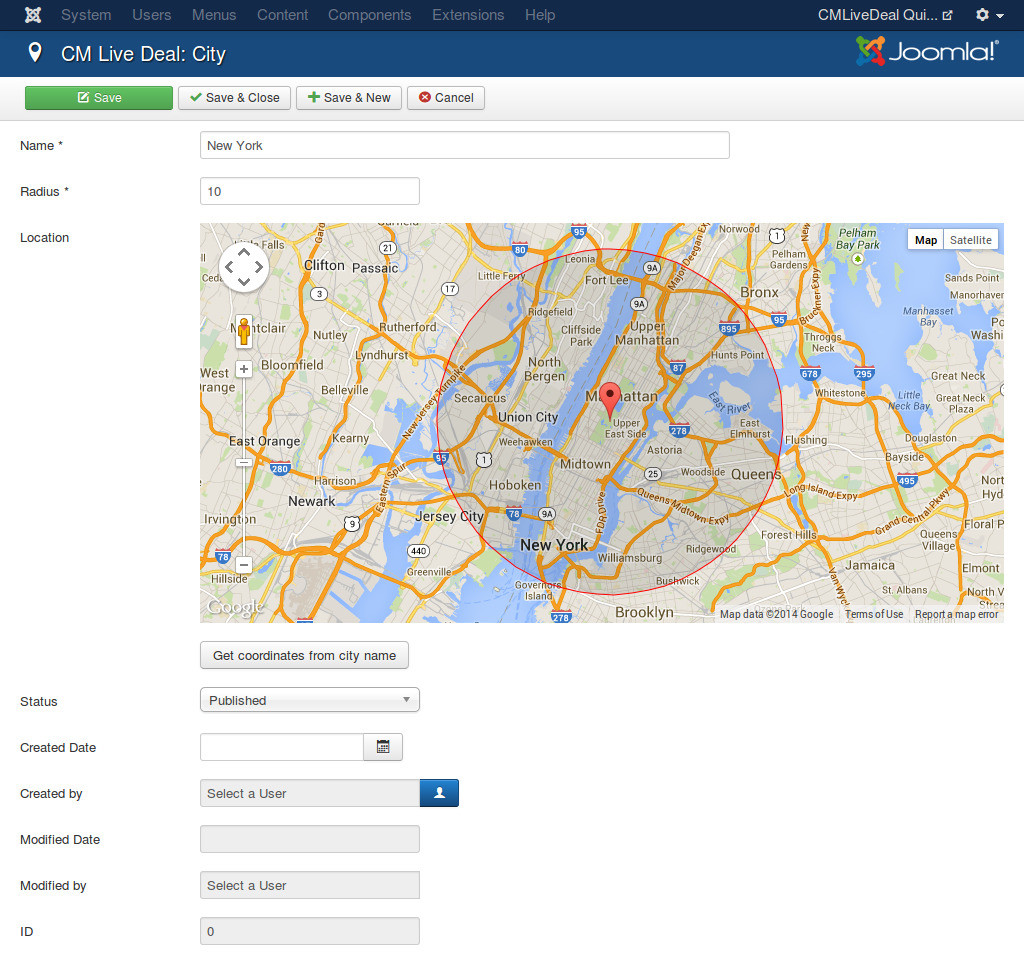
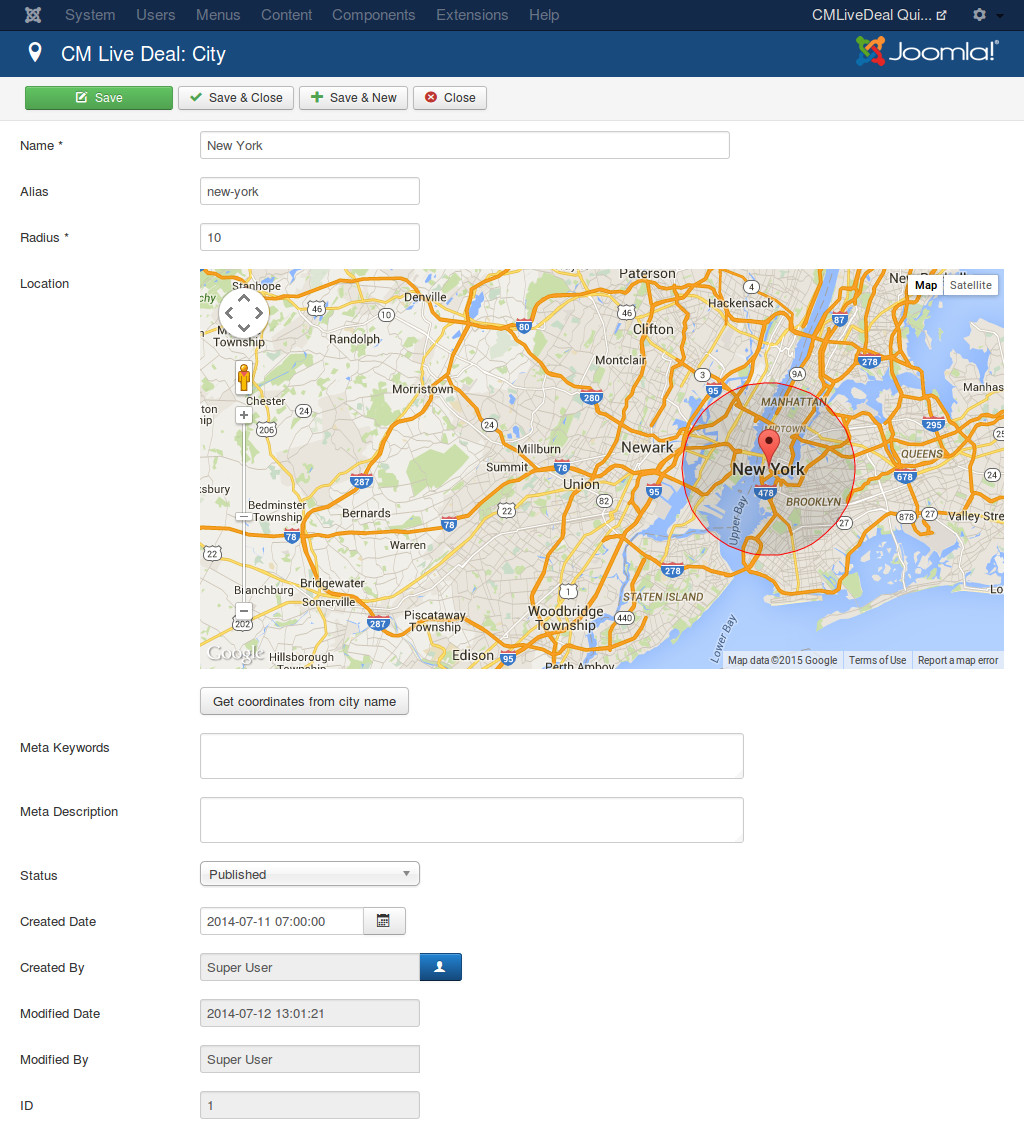
1.6.0-beta

diff --git a/conf.py b/conf.py
@@ -51,9 +51,9 @@ copyright = u'2014-2015, CMExtension'
 # built documents.
 #
 # The short X.Y version.
-version = '1.5.2'
+version = '1.6.0'
 # The full version, including alpha/beta/rc tags.
-release = '1.5.2-stable'
+release = '1.6.0-beta'
 
 # The language for content autogenerated by Sphinx. Refer to documentation
 # for a list of supported languages.

diff --git a/pages/deals.rst b/pages/deals.rst
@@ -41,6 +41,8 @@ If you enable "Limit coupon quantity" in the component's configuration, "Coupon 
 
 Other fields in the form:
 
+* **Meta description**: Meta description for SEO. Only administrator can see this field in back-end.
+* **Meta keywords**: Meta keywords for SEO. Only administrator can see this field in back-end.
 * **Impressions**: The number of times this deal is displayed in deal list.
 * **Clicks**: The number of times users click this deal to view its detail.
 * **Created Date**: The date the deal is created.
@@ -124,3 +126,28 @@ Deal list is where users browse and find the deals that they are interested in.
 In your back-end, you create a new menu item for "Deal List" page. You can check the menu item in front-end, the deal list is similar to the below screenshot.
 
 .. image:: ../images/deal_frontend_list.jpg
+
+Deal detail
+-----------
+
+There are 2 styles of deal detail which you can configure in :ref:`ref-configuration-deal` section in Configuration:
+
+* Popup:
+
+.. image:: ../images/deal_detail_popup.jpg
+
+* Separate detail page:
+
+.. image:: ../images/deal_detail_page.jpg
+
+There is a menu item for deal detail page but it is optional. If you create this menu item (as a hidden menu item), its alias will be used for deal detail page. But if this menu item doesn't exist, your deal list's alias will be used instead.
+
+For example, if your deal list's URL is www.yoursite.com/deal-list and you don't create menu item for deal detail page, your deal URL could look like:
+
+www.yoursite.com/deal-list/1-50-off-cocktails-and-2-tacos-at-rocks-lakeview-s-tuesday-specials
+
+But if you create menu item for deal detail page with alias "deal", your deal URL would be
+
+www.yoursite.com/deal/1-50-off-cocktails-and-2-tacos-at-rocks-lakeview-s-tuesday-specials
+
+The benefit of creating a separate menu item for deal detail page is you can assign different modules to detail page or not showing specific modules in deal detail page. By using deal list's menu item, all modules in deal list page will be displayed in deal detail page.

diff --git a/pages/merchants.rst b/pages/merchants.rst
@@ -61,6 +61,10 @@ Access the new menu item in front-end, login with a merchant account, you can se
 
 As an administrator, you can always edit any user's profile in User Manager.
 
+.. image:: ../images/merchant_backend_form.jpg
+
+Administrator can add and edit meta description and meta keywords for merchant, merchant can't do this by himself in front-end. Meta description and meta keywords are used in merchant's detail page for SEO purpose.
+
 Manage merchants
 ----------------
 
@@ -74,6 +78,6 @@ On the toolbar, you click "Merchants" item to access the merchant map.
 
 With this Google Maps, you can see the cities and the merchants in every city. Every city has a circle, if the merchant is in the circle of a city that means the merchant's deals can be listed in the deal list when users search for deals in that city.
 
-If there is any merchant that is not in the circle of any city, you should create a new city for that merchant, or extend the radius of the nearest city, unless the deals of these merchants are not searchable.
+If there is any merchant that is not in the circle of any city, you should create a new city for that merchant, or extend the radius of the nearest city, otherwise the deals of these merchants are not searchable.
 
 .. image:: ../images/merchant_map.jpg

diff --git a/pages/configuration.rst b/pages/configuration.rst
@@ -143,10 +143,17 @@ Merchant
 * **Merchant detail page**: Enable merchant detail page where merchant info and merchant's deal list are displayed.
 * **Use subscriber's profile as merchant's profile**: Enable copying subscriber's profile from the membership component to CM Live Deal's merchant profile after merchant subscribes his/her membership, so merchant only enter his/her info once. Please see :ref:`ref-membership` section for more information.
 
+.. _ref-configuration-deal:
+
 Deal
 ^^^^
 
 .. image:: ../images/com_cmlivedeal_deal.jpg
+
+* **Deal detail**: Enable/disable deal detail page.
+
+  * As popup in deal list: Deal detail page is disabled. When you click a deal in deal list, a popup (modal) appears and displays deal's info. You can close the popup and view another deal without leaving the deal list.
+  * As separate page: Deal detail page is enabled. When you click a deal in deal list, you are taken to another page.
 
 * **New deal notification**: Send email to administrators when there is a new deal submitted.
 * **Display merchant's photos**: Display the slideshow for merchant's photos in deal's popup.

diff --git a/pages/cities.rst b/pages/cities.rst
@@ -19,6 +19,8 @@ The form to create new city (and to edit existing city) has the following fields
 * **Name**: The city's name.
 * **Radius**: The radius in kilometer to collect deals from the city's position. The deals which are in this radius are considered to belong to this city. After entering your value in this field, you can click somewhere else on the page to update the new value to the Google Maps on the page.
 * **Location**: A Google Maps to select your city's location. You can move the marker to select the location. You can see an circle on the map, this circle's center is the Google Maps marker and the circle's radius is the radius of the "Radius" field, the deals which are in this circle are considered to belong to this city.
+* **Meta description**: Meta description for SEO.
+* **Meta keywords**: Meta keywords for SEO.
 * **Status**: Status of the city.
 * **Created Date**: The date the city is created.
 * **Created by**: The person who creates the city.
